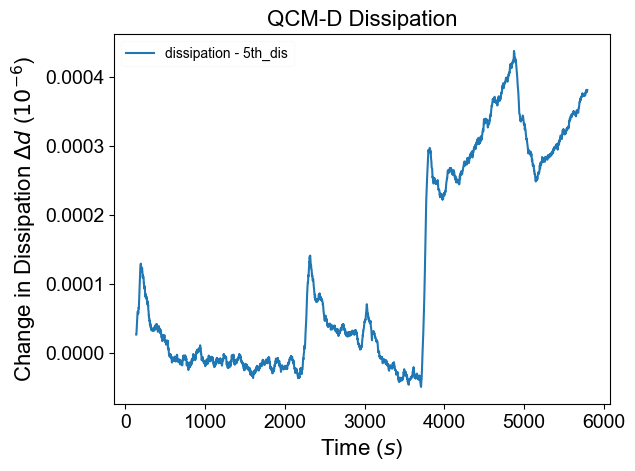
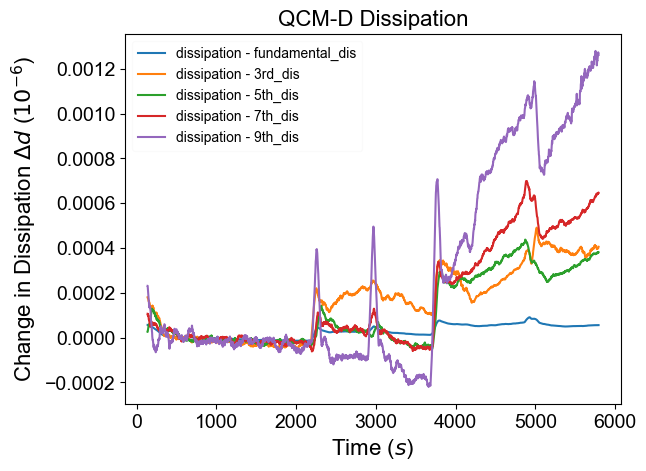
multi axis plot for dD and dF added

diff --git a/tajin_ahmed-fibronectin/fn_main.py b/tajin_ahmed-fibronectin/fn_main.py
@@ -7,7 +7,7 @@ Last Modified: 10/1/2022 3:42 pm
 import pandas as pd
 import matplotlib.pyplot as plt
 from scipy.optimize import curve_fit
-from datetime import datetime, time
+from datetime import datetime
 
 import gui
 
@@ -33,12 +33,11 @@ Clean Data:
 - plots raw data individually as specified in gui
 - option to normalize data by dividing frequency by its respective overtone
 - option to plot change in dissipation vs change in frequency
+- option for multi axis plot with change in frequency and dissipation vs time
+
 
 WIP
 - ERROR CHECKING?
-- alternate plot options:
-    - plot dF and dD together (multiaxis plot)
-
 - scale to minutes for x axis (gui input to determine)
 - y axis for dissipation scale * 10^(-6)
 
@@ -52,6 +51,11 @@ freqs = ['fundamental_freq', '3rd_freq', '5th_freq', '7th_freq', '9th_freq']
 disps = ['fundamental_dis', '3rd_dis', '5th_dis', '7th_dis', '9th_dis']
 t0_str = str(gui.abs_base_t0).lstrip('0')
 tf_str = str(gui.abs_base_tf).lstrip('0')
+
+# Some plot labels
+dis_fig_y = "Change in Dissipation " + '$\it{Δd}$' + " (" + r'$10^{-6}$' + ")"
+rf_fig_y = "Change in frequency " + '$\it{Δf}$' + " (" + '$\it{Hz}$' + ")"
+
 
 # grab singular file and create dataframe from it
 if gui.file_path == "":
@@ -85,7 +89,16 @@ def get_channels(scrub_level):
                 disp_list.append(channel[0])
 
     return (freq_list, disp_list)
-    
+
+def determine_xlabel():
+    if gui.x_timescale == 's':
+        return "Time (" + '$\it{s}$' + ")"
+    elif gui.x_timescale == 'm':
+        return "Time (" + '$\it{m}$' + ")"
+    else:
+        return "Time (" + '$\it{h}$' + ")"
+
+
 def setup_plot(fig_num, fig_x, fig_y, fig_title, fn, will_save=False):
     plt.figure(fig_num, clear=False)
     plt.legend(loc='best', fontsize=14, prop={'family': 'Arial'}, framealpha=0.1)
@@ -147,9 +160,7 @@ if gui.will_plot_clean_data:
                 overtone = 7
             if clean_freqs[i].__contains__("9"):
                 overtone = 9
-            print(data_df.head())
             data_df[clean_freqs[i]] /= overtone
-            print(data_df.head())
 
         # find baseline and grab values from baseline for avg
         base_tf_ind = data_df[data_df[abs_time_col].str.contains(tf_str)].index[0]
@@ -179,6 +190,21 @@ if gui.will_plot_clean_data:
             plt.figure(5, clear=False)
             plt.plot(y_rf, y_dis, 'o', label=f"{clean_disps[i]} vs {clean_freqs[i]}")
         
+        # multi axis plot for change in freq and change in dis vs time
+        if gui.will_plot_dF_dD_together:
+            fig, ax1 = plt.subplots()
+            ax1.set_xlabel(determine_xlabel(), fontsize=16, fontfamily='Arial')
+            ax1.set_ylabel(rf_fig_y, fontsize=16, fontfamily='Arial')
+            ax2 = ax1.twinx()
+            ax2.set_ylabel(dis_fig_y,fontsize=16, fontfamily='Arial')
+            ax1.plot(x_time, y_rf, label=f"resonant freq - {clean_freqs[i]}", color='green')
+            ax2.plot(x_time, y_dis, label=f"dissipation - {clean_disps[i]}", color='blue')
+            fig.legend(loc='upper center', fontsize=14, prop={'family': 'Arial'}, framealpha=0.1)
+            plt.xticks(fontsize=14, fontfamily='Arial')
+            plt.yticks(fontsize=14, fontfamily='Arial')
+            plt.title("", fontsize=16, fontfamily='Arial')
+            plt.savefig(f"qcmb-plots/freq_dis_V_time_{freqs[i][:3]}", bbox_inches='tight', transparent=True)
+        
         print(f"rf mean: {rf_base_avg}; dis mean: {dis_base_avg}\n")
 
         # cleaned df to overwrite old data
@@ -187,6 +213,7 @@ if gui.will_plot_clean_data:
                 cleaned_df = data_df[[abs_time_col,rel_time_col]]
             cleaned_df = pd.concat([cleaned_df,data_df[clean_freqs[i]]], axis=1)
             cleaned_df = pd.concat([cleaned_df,data_df[clean_disps[i]]], axis=1)
+
 
     if gui.will_overwrite_file:
         print(cleaned_df.head())
@@ -199,16 +226,9 @@ if gui.will_plot_clean_data:
     else:
         rf_fig_title = "QCM-D Resonant Frequency"
         rf_fn = f"qcmb-plots/resonant-freq-plot.png"
-    rf_fig_y = "Change in frequency " + '$\it{Δf}$' + " (" + '$\it{Hz}$' + ")"
-    if gui.x_timescale == 's':
-        rf_fig_x = "Time (" + '$\it{s}$' + ")"
-    elif gui.x_timescale == 'm':
-        rf_fig_x = "Time (" + '$\it{m}$' + ")"
-    else:
-        rf_fig_x = "Time (" + '$\it{h}$' + ")"
+    rf_fig_x = determine_xlabel()
 
     dis_fig_title = "QCM-D Dissipation"
-    dis_fig_y = "Change in Dissipation " + '$\it{Δd}$' + " (" + r'$10^{-6}$' + ")"
     dis_fig_x = rf_fig_x
     dis_fn = f"qcmb-plots/dissipation-plot.png"
 
@@ -221,6 +241,7 @@ if gui.will_plot_clean_data:
         dVf_fn = f"qcmb-plots/disp_V_freq-plot.png"
         dVf_title = "Dissipiation against Frequency"
         setup_plot(5, dis_fig_y, rf_fig_y, dis_fig_title, dVf_fn, True)
+
 
 # Gathering raw data for individual plots
 if gui.will_plot_raw_data:
@@ -240,7 +261,7 @@ if gui.will_plot_raw_data:
 
 
     raw_freqs, raw_disps = get_channels('raw')
-    # gather and plot raw freq data
+    # gather and plot raw frequency data
     for i in range(len(raw_freqs)):
         rf_data_df = df[[abs_time_col,rel_time_col,raw_freqs[i]]]
         rf_data_df = rf_data_df.dropna(axis=0, how='any', inplace=False)
@@ -252,6 +273,7 @@ if gui.will_plot_raw_data:
         setup_plot(3, rf_fig_x, rf_fig_y, rf_fig_title, rf_fn)
         plt.figure(3).savefig(rf_fn, bbox_inches='tight', transparent=True)
 
+    # gather and plot raw dissipation data
     for i in range(len(raw_disps)):
         dis_data_df = df[[abs_time_col,rel_time_col,raw_disps[i]]]
         dis_data_df = dis_data_df.dropna(axis=0, how='any', inplace=False)
